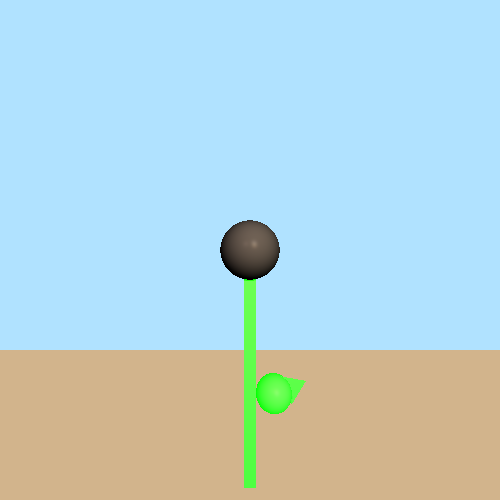
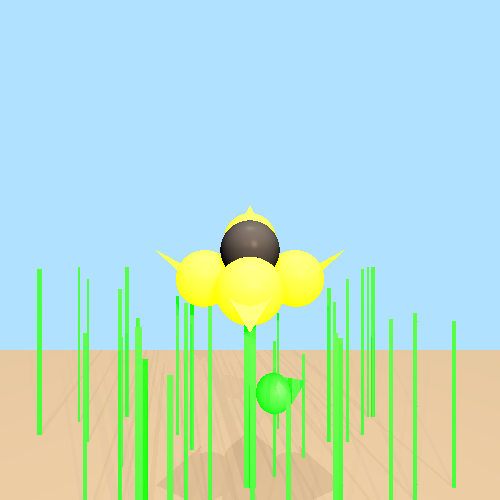
Fixing93

Changed region(s): [[0.0, 0.48, 1.0, 1.0], [0.45, 0.42, 0.57, 0.48], [0.48, 0.96, 0.51, 1.0]]

diff --git a/unittests/renderer/Mp2Tests.java b/unittests/renderer/Mp2Tests.java
@@ -32,7 +32,8 @@ class Mp2Tests {
                     new Point(-60, -20, -50),
                     new Point(60, -20, -50),
                     new Point(30, -20, -5)
-            ).setEmission(new Color(210, 180, 140)),
+            ).setEmission(new Color(210, 180, 140))
+                    .setMaterial(new Material().setKd(0.2).setKs(0.2).setShininess(20)),
 
             //The stalk
             // Front side
@@ -74,12 +75,277 @@ class Mp2Tests {
 
             //The flower
             //The center of the flower
+
+            //The flower
+            //Up-Yellow
+            new Triangle( new Point(-1.5, 2, -26), new Point(1.5, 2, -26), new Point(0, 5, -28))
+            .setEmission(new Color(java.awt.Color.YELLOW))
+            .setMaterial(new Material().setKd(0.8).setKs(0.2).setShininess(30)),
+            new Sphere( 2.5,new Point(0, 1, -24))
+            .setEmission(new Color(java.awt.Color.YELLOW))
+            .setMaterial(new Material().setKd(0.8).setKs(0.2).setShininess(30)),
+
+            //Down-Yellow
+            new Triangle( new Point(-1.5, -3, -16.5), new Point(1.5, -3, -16.5), new Point(0, -5, -15))
+            .setEmission(new Color(java.awt.Color.YELLOW))
+            .setMaterial(new Material().setKd(0.8).setKs(0.2).setShininess(30)),
+            new Sphere( 2.5,new Point(0, -3, -18.5))
+           .setEmission(new Color(java.awt.Color.YELLOW))
+            .setMaterial(new Material().setKd(0.8).setKs(0.2).setShininess(30)),
+
+            //Left-Yellow
+            new Triangle( new Point(-5, -2.5, -20), new Point(-5, -2.5, -25.5), new Point(-8, 0, -21.25))
+            .setEmission(new Color(java.awt.Color.YELLOW))
+            .setMaterial(new Material().setKd(0.8).setKs(0.2).setShininess(30)),
+            new Sphere( 2.5,new Point(-4, -2.5, -22.25))
+            .setEmission(new Color(java.awt.Color.YELLOW))
+            .setMaterial(new Material().setKd(0.8).setKs(0.2).setShininess(30)),
+
+            //Right-Yellow
+            new Triangle( new Point(5, -2.5, -20), new Point(5, -2.5, -25.5), new Point(8, 0, -21.25))
+            .setEmission(new Color(java.awt.Color.YELLOW))
+            .setMaterial(new Material().setKd(0.8).setKs(0.2).setShininess(30)),
+            new Sphere( 2.5,new Point(4, -2.5, -22.25))
+            .setEmission(new Color(java.awt.Color.YELLOW))
+            .setMaterial(new Material().setKd(0.8).setKs(0.2).setShininess(30)),
+
             //Center
             new Sphere( 2.5,new Point(0, 0, -21.25))
-                   .setEmission(new Color(java.awt.Color.BLACK))
-                    .setMaterial(new Material().setKd(0.7).setKs(0.3).setShininess(50))
+            .setEmission(new Color(java.awt.Color.BLACK))
+            .setMaterial(new Material().setKd(0.7).setKs(0.3).setShininess(50)),
 
-            );
+            //Field
+            new Polygon(new Point(-7, -7, -16),
+                    new Point(-6.5, -7, -16),
+                    new Point(-6.5, -20, -16),
+                    new Point(-7, -20, -16))
+            .setEmission(new Color( java.awt.Color.GREEN))
+            .setMaterial(new Material().setKd(0.8).setKs(0.2).setShininess(20)),
+
+            new Polygon(new Point(-15, -2, -30),
+                    new Point(-14.5, -2, -30),
+                    new Point(-14.5, -20, -30),
+                    new Point(-15, -20, -30))
+                    .setEmission(new Color( java.awt.Color.GREEN))
+                    .setMaterial(new Material().setKd(0.8).setKs(0.2).setShininess(20)),
+
+            new Polygon(new Point(-23, -2, -27),
+                    new Point(-22.5, -2, -27),
+                    new Point(-22.5, -20, -27),
+                    new Point(-23, -20, -27))
+            .setEmission(new Color( java.awt.Color.GREEN))
+            .setMaterial(new Material().setKd(0.8).setKs(0.2).setShininess(20)),
+
+            new Polygon(new Point(15, -2, -30),
+                    new Point(14.5, -2, -30),
+                    new Point(14.5, -20, -30),
+                    new Point(15, -20, -30))
+            .setEmission(new Color( java.awt.Color.GREEN))
+            .setMaterial(new Material().setKd(0.8).setKs(0.2).setShininess(20)),
+
+
+            new Polygon(new Point(10, -5, -18),
+                    new Point(10.3, -5, -18),
+                    new Point(10.3, -20, -18),
+                    new Point(10, -20, -18))
+                    .setEmission(new Color(java.awt.Color.GREEN))
+                    .setMaterial(new Material().setKd(0.8).setKs(0.2).setShininess(20)),
+
+            new Polygon(new Point(5, -10, -24),
+                    new Point(5.3, -10, -24),
+                    new Point(5.3, -20, -24),
+                    new Point(5, -20, -24))
+                    .setEmission(new Color(java.awt.Color.GREEN))
+                    .setMaterial(new Material().setKd(0.8).setKs(0.2).setShininess(20)),
+
+            new Polygon(new Point(-10, -3, -19),
+                    new Point(-9.7, -3, -19),
+                    new Point(-9.7, -20, -19),
+                    new Point(-10, -20, -19))
+                    .setEmission(new Color(java.awt.Color.GREEN))
+                    .setMaterial(new Material().setKd(0.8).setKs(0.2).setShininess(20)),
+
+            new Polygon(new Point(0, -6, -29),
+                    new Point(0.3, -6, -29),
+                    new Point(0.3, -20, -29),
+                    new Point(0, -20, -29))
+                    .setEmission(new Color(java.awt.Color.GREEN))
+                    .setMaterial(new Material().setKd(0.8).setKs(0.2).setShininess(20)),
+
+            new Polygon(new Point(-12, -6, -18),
+                    new Point(-11.7, -6, -18),
+                    new Point(-11.7, -20, -18),
+                    new Point(-12, -20, -18))
+                    .setEmission(new Color(java.awt.Color.GREEN))
+                    .setMaterial(new Material().setKd(0.8).setKs(0.2).setShininess(20)),
+
+            new Polygon(new Point(8, -4, -26),
+                    new Point(8.4, -4, -26),
+                    new Point(8.4, -20, -26),
+                    new Point(8, -20, -26))
+                    .setEmission(new Color(java.awt.Color.GREEN))
+                    .setMaterial(new Material().setKd(0.8).setKs(0.2).setShininess(20)),
+
+            new Polygon(new Point(2, -8, -22),
+                    new Point(2.3, -8, -22),
+                    new Point(2.3, -20, -22),
+                    new Point(2, -20, -22))
+                    .setEmission(new Color(java.awt.Color.GREEN))
+                    .setMaterial(new Material().setKd(0.8).setKs(0.2).setShininess(20)),
+
+            new Polygon(new Point(-6, -2, -25),
+                    new Point(-5.6, -2, -25),
+                    new Point(-5.6, -20, -25),
+                    new Point(-6, -20, -25))
+                    .setEmission(new Color(java.awt.Color.GREEN))
+                    .setMaterial(new Material().setKd(0.8).setKs(0.2).setShininess(20)),
+
+            new Polygon(new Point(13, -5, -20),
+                    new Point(13.4, -5, -20),
+                    new Point(13.4, -20, -20),
+                    new Point(13, -20, -20))
+                    .setEmission(new Color(java.awt.Color.GREEN))
+                    .setMaterial(new Material().setKd(0.8).setKs(0.2).setShininess(20)),
+
+            new Polygon(new Point(-17, -3, -26),
+                    new Point(-16.7, -3, -26),
+                    new Point(-16.7, -20, -26),
+                    new Point(-17, -20, -26))
+                    .setEmission(new Color(java.awt.Color.GREEN))
+                    .setMaterial(new Material().setKd(0.8).setKs(0.2).setShininess(20)),
+
+            new Polygon(new Point(-10, -6, -22),
+                    new Point(-9.7, -6, -22),
+                    new Point(-9.7, -20, -22),
+                    new Point(-10, -20, -22))
+                    .setEmission(new Color(java.awt.Color.GREEN))
+                    .setMaterial(new Material().setKd(0.8).setKs(0.2).setShininess(20)),
+
+            new Polygon(new Point(-5, -4, -19),
+                    new Point(-4.7, -4, -19),
+                    new Point(-4.7, -20, -19), new Point(-5, -20, -19))
+                    .setEmission(new Color(java.awt.Color.GREEN))
+                    .setMaterial(new Material().setKd(0.8).setKs(0.2).setShininess(20)),
+
+            new Polygon(new Point(3, -7, -28),
+                    new Point(3.3, -7, -28),
+                    new Point(3.3, -20, -28), new Point(3, -20, -28))
+                    .setEmission(new Color(java.awt.Color.GREEN))
+                    .setMaterial(new Material().setKd(0.8).setKs(0.2).setShininess(20)),
+
+            new Polygon(new Point(8, -5, -24),
+                    new Point(8.3, -5, -24),
+                    new Point(8.3, -20, -24),
+                    new Point(8, -20, -24))
+                    .setEmission(new Color(java.awt.Color.GREEN))
+                    .setMaterial(new Material().setKd(0.8).setKs(0.2).setShininess(20)),
+
+            new Polygon(new Point(14, -2, -30),
+                    new Point(14.3, -2, -30),
+                    new Point(14.3, -20, -30),
+                    new Point(14, -20, -30))
+                    .setEmission(new Color(java.awt.Color.GREEN))
+                    .setMaterial(new Material().setKd(0.8).setKs(0.2).setShininess(20)),
+
+            new Polygon(new Point(17, -6, -21),
+                    new Point(17.3, -6, -21),
+                    new Point(17.3, -20, -21),
+                    new Point(17, -20, -21))
+                    .setEmission(new Color(java.awt.Color.GREEN))
+                    .setMaterial(new Material().setKd(0.8).setKs(0.2).setShininess(20)),
+
+            new Polygon(new Point(-20, -2, -29),
+                    new Point(-19.7, -2, -29),
+                    new Point(-19.7, -20, -29),
+                    new Point(-20, -20, -29))
+                    .setEmission(new Color(java.awt.Color.GREEN))
+                    .setMaterial(new Material().setKd(0.8).setKs(0.2).setShininess(20)),
+
+            new Polygon(new Point(-12, -8, -23),
+                    new Point(-11.7, -8, -23),
+                    new Point(-11.7, -20, -23),
+                    new Point(-12, -20, -23))
+                    .setEmission(new Color(java.awt.Color.GREEN))
+                    .setMaterial(new Material().setKd(0.8).setKs(0.2).setShininess(20)),
+
+            new Polygon(new Point(-8, -5, -27),
+                    new Point(-7.7, -5, -27),
+                    new Point(-7.7, -20, -27),
+                    new Point(-8, -20, -27))
+                    .setEmission(new Color(java.awt.Color.GREEN))
+                    .setMaterial(new Material().setKd(0.8).setKs(0.2).setShininess(20)),
+
+            new Polygon(new Point(6, -6, -17),
+                    new Point(6.3, -6, -17),
+                    new Point(6.3, -20, -17),
+                    new Point(6, -20, -17))
+                    .setEmission(new Color(java.awt.Color.GREEN))
+                    .setMaterial(new Material().setKd(0.8).setKs(0.2).setShininess(20)),
+
+            new Polygon(new Point(10, -3, -26),
+                    new Point(10.3, -3, -26),
+                    new Point(10.3, -20, -26),
+                    new Point(10, -20, -26))
+                    .setEmission(new Color(java.awt.Color.GREEN))
+                    .setMaterial(new Material().setKd(0.8).setKs(0.2).setShininess(20)),
+
+            new Polygon(new Point(0, -8, -25),
+                    new Point(0.3, -8, -25),
+                    new Point(0.3, -20, -25),
+                    new Point(0, -20, -25))
+                    .setEmission(new Color(java.awt.Color.GREEN))
+                    .setMaterial(new Material().setKd(0.8).setKs(0.2).setShininess(20)),
+
+            new Polygon(new Point(-3, -4, -18),
+                    new Point(-2.7, -4, -18),
+                    new Point(-2.7, -20, -18),
+                    new Point(-3, -20, -18))
+                    .setEmission(new Color(java.awt.Color.GREEN))
+                    .setMaterial(new Material().setKd(0.8).setKs(0.2).setShininess(20)),
+
+            new Polygon(new Point(12, -2, -27),
+                    new Point(12.3, -2, -27),
+                    new Point(12.3, -20, -27),
+                    new Point(12, -20, -27))
+                    .setEmission(new Color(java.awt.Color.GREEN))
+                    .setMaterial(new Material().setKd(0.8).setKs(0.2).setShininess(20)),
+
+            new Polygon(new Point(-4, -6, -12),
+                    new Point(-3.7, -6, -12),
+                    new Point(-3.7, -20, -12),
+                    new Point(-4, -20, -12))
+                    .setEmission(new Color(java.awt.Color.GREEN))
+                    .setMaterial(new Material().setKd(0.8).setKs(0.2).setShininess(20)),
+
+            new Polygon(new Point(2, -8, -14),
+                    new Point(2.3, -8, -14),
+                    new Point(2.3, -20, -14),
+                    new Point(2, -20, -14))
+                    .setEmission(new Color(java.awt.Color.GREEN))
+                    .setMaterial(new Material().setKd(0.8).setKs(0.2).setShininess(20)),
+
+            new Polygon(new Point(5, -5, -15),
+                    new Point(5.3, -5, -15),
+                    new Point(5.3, -20, -15),
+                    new Point(5, -20, -15))
+                    .setEmission(new Color(java.awt.Color.GREEN))
+                    .setMaterial(new Material().setKd(0.8).setKs(0.2).setShininess(20)),
+
+            new Polygon(new Point(-6, -4, -13),
+                    new Point(-5.6, -4, -13),
+                    new Point(-5.6, -20, -13),
+                    new Point(-6, -20, -13))
+                    .setEmission(new Color(java.awt.Color.GREEN))
+                    .setMaterial(new Material().setKd(0.8).setKs(0.2).setShininess(20)),
+
+            new Polygon(new Point(0, -6, -16),
+                    new Point(0.3, -6, -16),
+                    new Point(0.3, -20, -16),
+                    new Point(0, -20, -16))
+                    .setEmission(new Color(java.awt.Color.GREEN))
+                    .setMaterial(new Material().setKd(0.8).setKs(0.2).setShininess(20))
+
+    );
 
     /**The scene of the camera
      The scene is created with a background color and multiple light sources */
@@ -89,7 +355,8 @@ class Mp2Tests {
                             .setKl(0.012).setKq(0.0015),
                     new SpotLight(new Color(160, 125, 80), new Point(8, 8, 6), new Vector(-1, -1, -2))
                             .setKl(0.012).setKq(0.0015),
-                    new DirectionalLight(new Color(70, 70, 70), new Vector(-0.3, -0.5, -1))
+                    new DirectionalLight(new Color(70, 70, 70), new Vector(-0.3, -0.5, -1)),
+                    new DirectionalLight(new Color(70, 70, 70), new Vector(0, -1, 0))
             ));
 
 
@@ -128,4 +395,5 @@ class Mp2Tests {
                 .build();
         cam1.renderImage().writeToImage("FinalPicture2");
     }
+
 }
